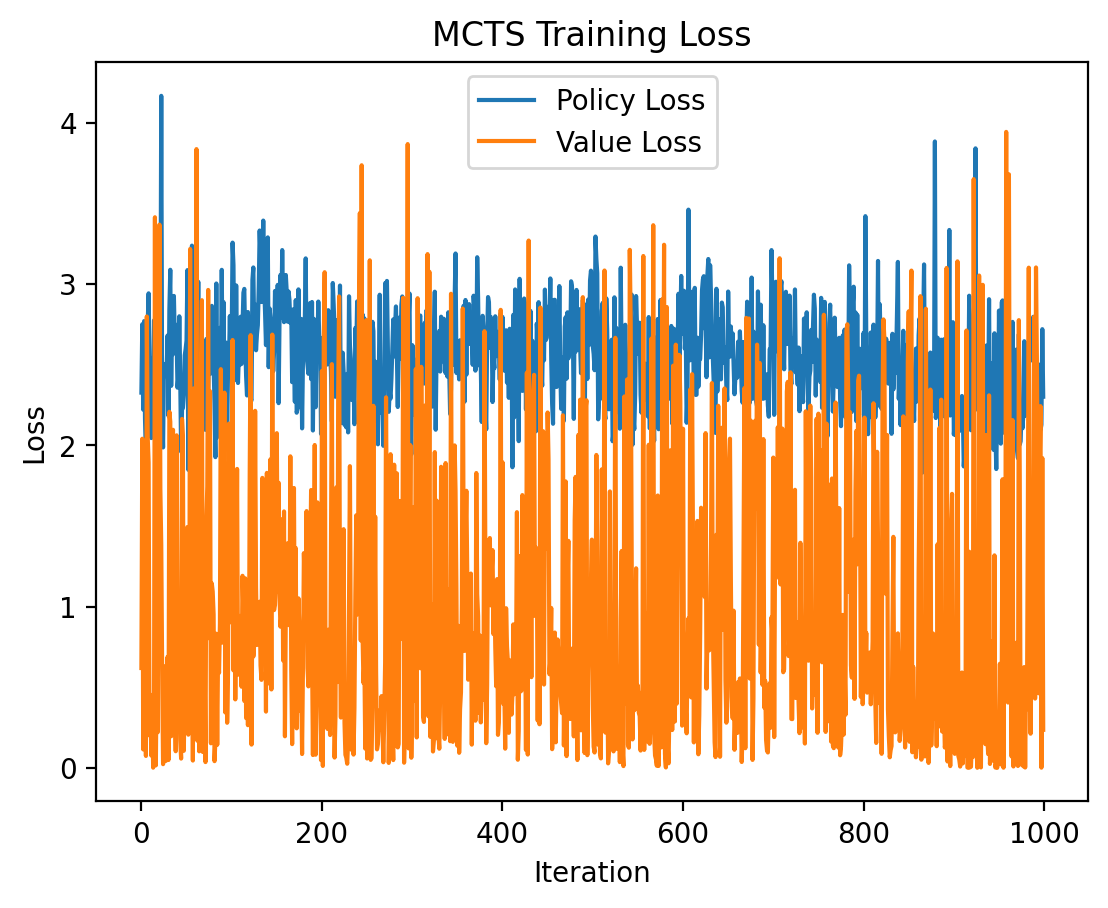
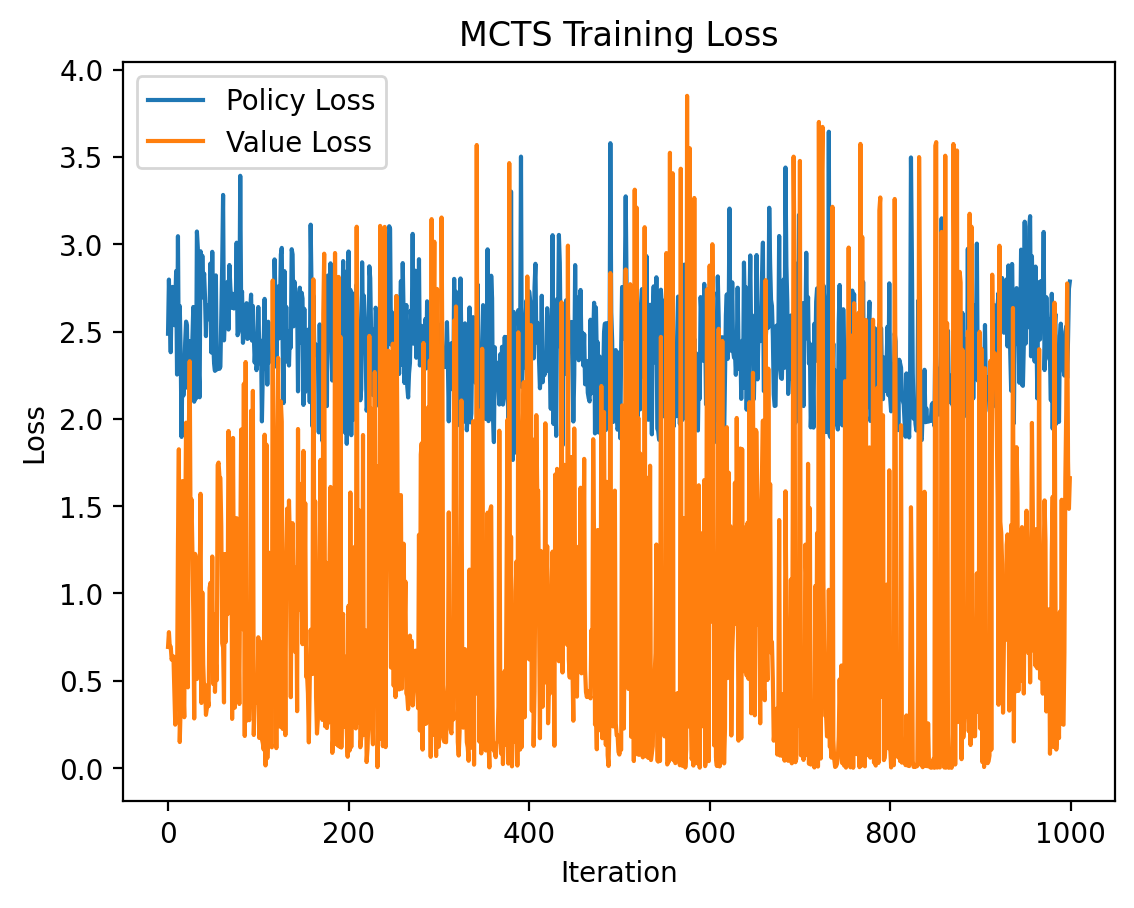
updates

diff --git a/gomoku/train.py b/gomoku/train.py
@@ -374,11 +374,13 @@ def generate_episode_for_mcts(start_state,
     # cur_turn: 0 for black, 1 for white.
     cur_turn = 0
     if random_start:
-        total_random_moves = random.randint(2,  2)
+        total_random_moves = random.randint(0, 3)
         for _ in range(total_random_moves):
             cur_action = get_random_legal_move(start_state)
             start_state = step(start_state, cur_action, cur_turn)
             cur_turn = 1 - cur_turn
+        if total_random_moves == 0:
+            cur_action = -1
     else:
         cur_action = -1
     cur_state = start_state
@@ -512,7 +514,7 @@ def compute_mcts_losses(episode_data, value_coef, device):
 def mcts_training_loop(start_state, 
                        player_path=None,
                        num_iter=1000, 
-                       learning_rate=3e-4,
+                       learning_rate=1e-4,
                        value_coef=1):
     """
     MCTS self-play training loop.
@@ -673,23 +675,22 @@ def inspect_mcts_bookkeeping(loss_by_type):
             f"{label}: p10={q10.item():.4f}, median={q50.item():.4f}, p90={q90.item():.4f}"
         )
 
-    def _print_last(label, values):
+    def _print_average(label, values):
         if not values:
             print(f"{label}: no samples")
             return
-        last_value = values[-1]
-        if torch.is_tensor(last_value):
-            last_value = last_value.item()
-        print(f"{label}: last={last_value:.4f}")
+        values_tensor = torch.tensor(
+            [value.item() if torch.is_tensor(value) else value for value in values],
+            dtype=torch.float32,
+        )
+        print(f"{label}: average={values_tensor.mean().item():.4f}")
 
     print("------ MCTS Predicted Value Percentiles ------")
     _print_percentiles("black_predicted", black_predicted_values)
     _print_percentiles("white_predicted", white_predicted_values)
-    print("------ MCTS Latest Value Bookkeeping ------")
-    _print_last("black_value_mean", bookkeeping["black_value_mean"])
-    _print_last("white_value_mean", bookkeeping["white_value_mean"])
-    _print_last("black_value_loss", bookkeeping["black_value_loss"])
-    _print_last("white_value_loss", bookkeeping["white_value_loss"])
+    print("------ MCTS Average Training Loss ------")
+    _print_average("policy_loss", loss_by_type["policy"])
+    _print_average("value_loss", loss_by_type["value"])
 
 def plot_loss_by_iter(loss_by_type):
     actor_loss = [loss.item() if torch.is_tensor(loss) else loss for loss in loss_by_type["actor"]]

diff --git a/gomoku/evaluation.py b/gomoku/evaluation.py
@@ -1,6 +1,6 @@
 from utils import get_random_legal_move, step, check_win_cond
 from opponent import RandomOpponent, FirstOpponent, OurPlayer
-from config import BOARD_SIZE, REINFORCE_MODELS_DIR, ACTOR_CRITIC_MODELS_DIR, MCTS_MODELS_DIR
+from config import BOARD_SIZE, REINFORCE_MODELS_DIR, ACTOR_CRITIC_MODELS_DIR, MCTS_MODELS_DIR, FROZEN_DIR
 from mcts import MCTS
 
 import random
@@ -89,18 +89,22 @@ if __name__ == "__main__":
     # num_wins, num_draws, num_games = calc_win_rate(our_player, our_opponent, use_mcts=True)
     # print(f"Win rate against 1000 Actor-Critic: {num_wins / num_games}")
 
-    our_opponent = FirstOpponent(ACTOR_CRITIC_MODELS_DIR / "final_policy_1000.pt")
-    num_wins, num_draws, num_games = calc_win_rate(our_player, our_opponent, use_mcts=True, dirichlet_enabled=False)
-    print(f"Win rate against Actor-Critic heuristic: {num_wins / num_games}")
+    # our_opponent = FirstOpponent(ACTOR_CRITIC_MODELS_DIR / "final_policy_1000.pt")
+    # num_wins, num_draws, num_games = calc_win_rate(our_player, our_opponent, use_mcts=True, dirichlet_enabled=False)
+    # print(f"Win rate against Actor-Critic heuristic: {num_wins / num_games}")
 
     # our_opponent = OurPlayer(REINFORCE_MODELS_DIR / "final_policy_1000.pt")
     # num_wins, num_draws, num_games = calc_win_rate(our_player, our_opponent, use_mcts=True)
     # print(f"Win rate against 1000 REINFORCE: {num_wins / num_games}")
 
-    our_opponent = FirstOpponent(REINFORCE_MODELS_DIR / "final_policy_1000.pt")
-    num_wins, num_draws, num_games = calc_win_rate(our_player, our_opponent, use_mcts=True, dirichlet_enabled=False)
-    print(f"Win rate against REINFORCE heuristic: {num_wins / num_games}")
+    # our_opponent = FirstOpponent(REINFORCE_MODELS_DIR / "final_policy_1000.pt")
+    # num_wins, num_draws, num_games = calc_win_rate(our_player, our_opponent, use_mcts=True, dirichlet_enabled=False)
+    # print(f"Win rate against REINFORCE heuristic: {num_wins / num_games}")
 
-    our_opponent = OurPlayer(ACTOR_CRITIC_MODELS_DIR / "final_policy_10000.pt")
+    # our_opponent = OurPlayer(ACTOR_CRITIC_MODELS_DIR / "final_policy_10000.pt")
+    # num_wins, num_draws, num_games = calc_win_rate(our_player, our_opponent, use_mcts=True, dirichlet_enabled=False)
+    # print(f"Win rate against 10000 AC: {num_wins / num_games}")
+
+    our_opponent = OurPlayer(FROZEN_DIR / "four.pt")
     num_wins, num_draws, num_games = calc_win_rate(our_player, our_opponent, use_mcts=True, dirichlet_enabled=False)
-    print(f"Win rate against 10000 AC: {num_wins / num_games}")
+    print(f"Win rate against four.pt: {num_wins / num_games}")

diff --git a/gomoku/debug.py b/gomoku/debug.py
@@ -2,7 +2,7 @@
 
 import torch
 
-from config import BOARD_SIZE, ACTOR_CRITIC_MODELS_DIR
+from config import BOARD_SIZE, ACTOR_CRITIC_MODELS_DIR, MCTS_MODELS_DIR
 from model import PolicyNetwork
 from utils import step
 
@@ -146,7 +146,7 @@ def inspect_policy_move_diversity(policy):
 
 
 def main():
-    model_path = ACTOR_CRITIC_MODELS_DIR / "final_policy_1000.pt"
+    model_path = MCTS_MODELS_DIR / "final_policy_1000.pt"
     policy = load_policy(model_path)
     inspect_value_head_linear(policy)
     inspect_value_outputs_across_boards(policy)

diff --git a/gomoku/app.py b/gomoku/app.py
@@ -109,6 +109,7 @@ def create_mcts(policy, state, policy_turn, last_action):
         last_action=last_action,
         policy=policy,
         total_sim_for_one_move=MCTS_UI_SIMS,
+        dirichlet_enabled=False,
     )
 
 

diff --git a/gomoku/diary.md b/gomoku/diary.md
@@ -695,12 +695,17 @@ We are doing 100 sims, and it's about 1s per iter.
 
 Another important thing to add seems like the replay buffer, maybe we should learn about what it is, and if profitable, implement it.
 
-Saved a 5k iterations version to frozen, called four.
+And here are some truly encouraging results: at 5K iter, our MCTS agent is able to beat the two heuristic (1000AC and 1000RE) at 0.99, and it already beat the previous 10K AC at 0.8. So we are doing much much better. So we have achieved all we wanted to do before the project starts, and we can have a satisfying wrap :) And at 8K iter, it could beat 10K AV at 0.98, and that 10K AC was the strongest agent previously. 
 
-And here are some truly encouraging results: at 5K iter, our MCTS agent is able to beat the two heuristic (1000AC and 1000RE) at 0.99, and it already beat the previous 10K AC at 0.8. So we are doing much much better. So we have achieved all we wanted to do before the project starts, and we can have a satisfying wrap :)
+Running debug.py also shows that the NN still has a lot of live neurons.
+Inspecting the loss plot shows that the loss are on the same scale, so not much scaling needed.
 
-And, for the first time ever, I lost :) At just 6K iterations of MCTS. This is a true milestone.
+And, for the first time ever, I lost :) At just 6K iterations of MCTS. This is a true milestone. Maybe eventually we will even conquer 13*13, which, really seems like a matter of throwing more compute at it.
 
 Tomorrow we wil do a thorough understanding of the "Why". Why is MCTS doing so much better, at so few iterations. This should give us valuable insights going forward.
 
-7
+Saved a 10k iterations version to frozen, called four.
+
+We will probs do more training: now lowering lr to 1e-4, and random moves from fixed 2 moves to 0 to 3. 
+
+Let's also spent sometime to understand the loss values from debugging output, I am not really getting it right now.